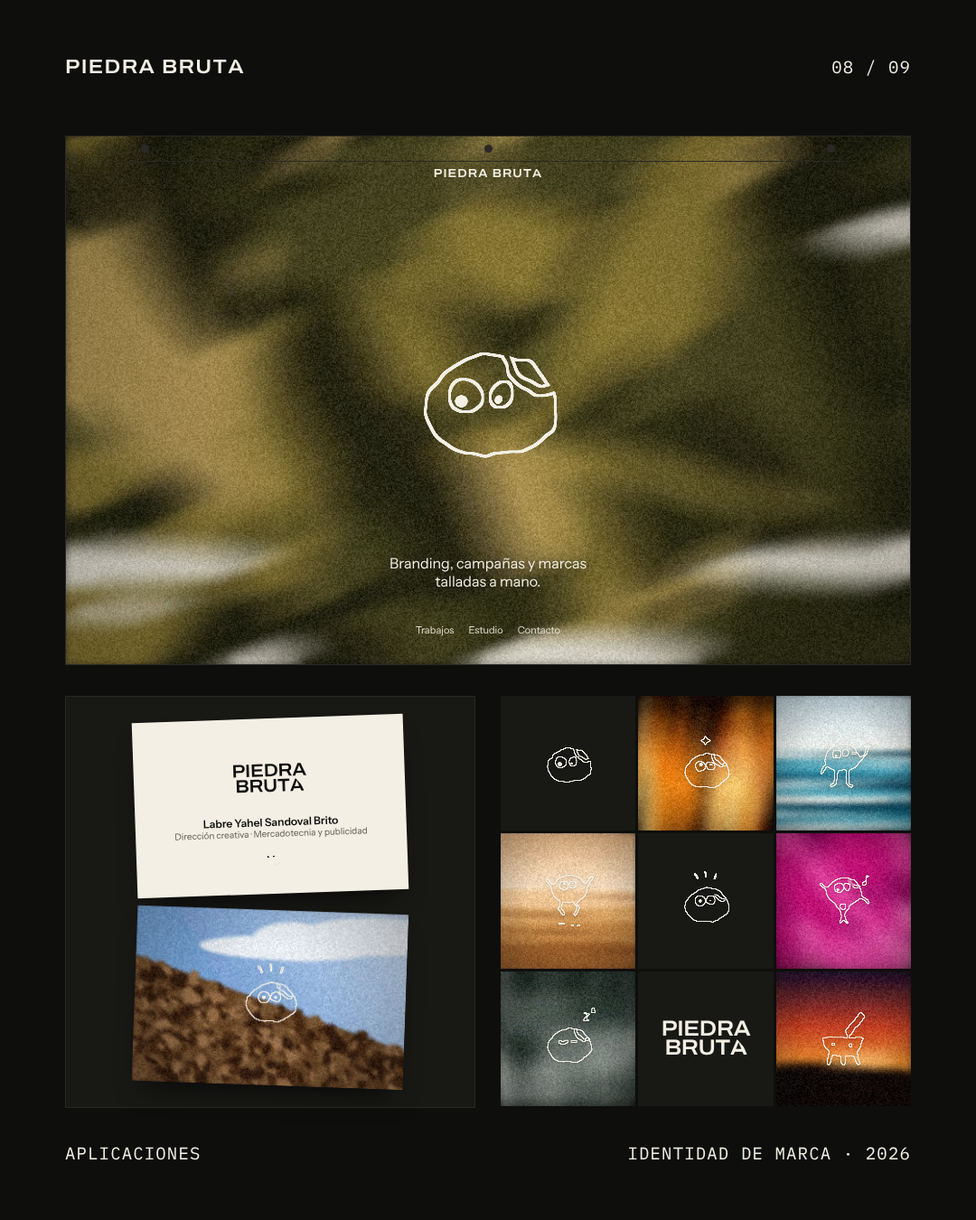
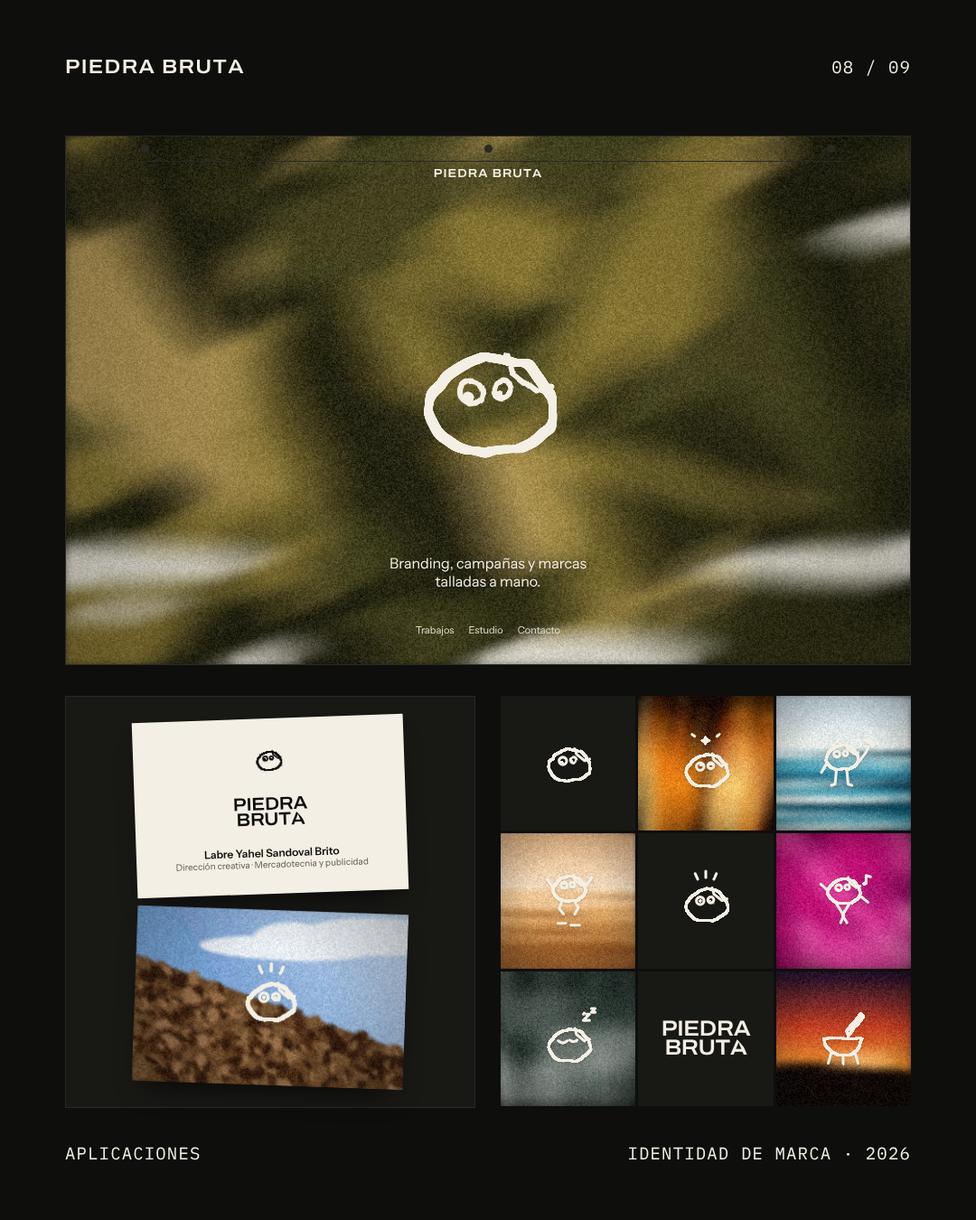
Ilustraciones de Bruta en línea con grosor parejo y logotipo vertical
- Bruta y sus 12 gestos en trazo único (brazos, corte y ojos en una línea)
- Grosor del trazo constante según el tamaño en pantalla
- Logotipo con Bruta arriba y centrado; derretida suave, media e intensa
- 24 PNG transparentes (blanco y negro) y portafolio actualizado

Claude-Session: https://claude.ai/code/session_01EM6TpMU7t67S14XcMdvHnA

diff --git a/identidad/identidad-rupestre.html b/identidad/identidad-rupestre.html
@@ -101,6 +101,10 @@ legend { font-family: "IBM Plex Mono", ui-monospace, monospace; font-size: 12px;
 .mcard .line .sym { width: 1.25em; color: inherit; flex: none; }
 .mcard .plate { overflow: hidden; }
 .mcard .plate.cutdemo { place-items: end start; padding-bottom: 0; }
+.vlock { display: flex; flex-direction: column; align-items: center; justify-content: center; gap: 14px; width: 100%; color: inherit; text-align: center; }
+.vlock > .sym { width: var(--sy, 24%); color: inherit; }
+.vlock .mw { display: block; color: inherit; }
+.mcard .plate.light .vlock .sym, .mcard .plate.light .mw { color: var(--noche); }
 .mcard .caption { font-family: "IBM Plex Mono", ui-monospace, monospace; font-size: 12px; color: var(--ceniza); }
 .fonts { display: grid; gap: 12px; grid-template-columns: repeat(auto-fit, minmax(min(100%, 280px), 1fr)); margin-top: 20px; }
 .fcard { padding: 18px; border: 1px solid var(--linea); display: flex; flex-direction: column; gap: 10px; }
@@ -110,6 +114,7 @@ legend { font-family: "IBM Plex Mono", ui-monospace, monospace; font-size: 12px;
 .fcard p { font-size: 14px; color: var(--ceniza); }
 .fcard.on { border-color: var(--hueso); }
 
+svg .ln, svg .ln * { stroke-width: var(--sw); }
 /* Sistema tipográfico */
 .mono { font-family: "IBM Plex Mono", ui-monospace, Menlo, monospace; }
 .arch { font-family: "Archivo", "Helvetica Neue", Arial, sans-serif; font-stretch: 110%; }
@@ -247,7 +252,7 @@ footer { padding-block: 32px 48px; border-top: 1px solid var(--linea); color: va
 
 <section>
   <div class="wrap">
-    <div class="head"><h2>Logotipo</h2><p>El nombre va completo, nunca partido en sílabas. Su detalle propio es el corte: la A final pierde la esquina superior derecha, como la piedra de Bruta.</p></div>
+    <div class="head"><h2>Logotipo</h2><p>Bruta va arriba y centrada; el nombre, completo, debajo. Puede escribirse en Archivo, con la A tallada, o en su versión derretida en tres intensidades: suave, media e intensa.</p></div>
     <div class="marks" id="marks"></div>
   </div>
 </section>
@@ -328,7 +333,7 @@ footer { padding-block: 32px 48px; border-top: 1px solid var(--linea); color: va
       </div>
       <div class="app">
         <div class="cards">
-          <div class="bc front"><span class="stack"><span>Piedra</span><span>Brut<span class="cutA">a</span></span></span><div class="r"><p class="who">Labre Yahel Sandoval Brito<small>Dirección creativa · Mercadotecnia y publicidad</small></p><span class="sym"></span></div></div>
+          <div class="bc front"><span class="sym bc-top" style="width:40px"></span><span class="stack"><span>Piedra</span><span>Brut<span class="cutA">a</span></span></span><div class="r"><p class="who">Labre Yahel Sandoval Brito<small>Dirección creativa · Mercadotecnia y publicidad</small></p></div></div>
           <div class="bc back" id="bc-back"><canvas></canvas><span class="sym"></span></div>
         </div>
         <h3>Tarjeta de presentación</h3><p>Frente en blanco hueso con el nombre y los datos centrados; reverso con foto y la Mirada en blanco.</p>
@@ -347,6 +352,13 @@ footer { padding-block: 32px 48px; border-top: 1px solid var(--linea); color: va
 (() => {
   /* ===== Filtros: trazo derretido (desplazamiento + desenfoque + umbral) ===== */
   const fx = document.getElementById("fx");
+  [["melt-suave", 16, 2.8], ["melt-intensa", 60, 5.5]].forEach(([id, sc, bl]) => fx.insertAdjacentHTML("beforeend", `
+    <filter id="${id}" x="-10%" y="-20%" width="120%" height="140%" color-interpolation-filters="sRGB">
+      <feTurbulence type="fractalNoise" baseFrequency="0.011 0.018" numOctaves="2" seed="5" result="t"/>
+      <feDisplacementMap in="SourceGraphic" in2="t" scale="${sc}" xChannelSelector="R" yChannelSelector="G" result="d"/>
+      <feGaussianBlur in="d" stdDeviation="${bl}" result="b"/>
+      <feColorMatrix in="b" type="matrix" values="1 0 0 0 0  0 1 0 0 0  0 0 1 0 0  0 0 0 18 -8"/>
+    </filter>`));
   fx.insertAdjacentHTML("beforeend", `
     <filter id="melt" x="-10%" y="-20%" width="120%" height="140%" color-interpolation-filters="sRGB">
       <feTurbulence type="fractalNoise" baseFrequency="0.011 0.018" numOctaves="2" seed="5" result="t"/>
@@ -357,6 +369,7 @@ footer { padding-block: 32px 48px; border-top: 1px solid var(--linea); color: va
   fx.insertAdjacentHTML("beforeend", `
     <filter id="outline" x="-10%" y="-10%" width="120%" height="120%"><feMorphology in="SourceAlpha" operator="erode" radius="3.2" result="e"/><feComposite in="SourceGraphic" in2="e" operator="out"/></filter>
     <filter id="outline-melt" x="-10%" y="-20%" width="120%" height="140%"><feMorphology in="SourceAlpha" operator="erode" radius="5" result="e"/><feComposite in="SourceGraphic" in2="e" operator="out"/></filter>`);
+  [3, 7, 11].forEach((seed, i) => fx.insertAdjacentHTML("beforeend", `<filter id="wob${i}" x="-20%" y="-20%" width="140%" height="140%"><feTurbulence type="fractalNoise" baseFrequency="0.035" numOctaves="2" seed="${seed}" result="t"/><feDisplacementMap in="SourceGraphic" in2="t" scale="6" xChannelSelector="R" yChannelSelector="G"/></filter>`));
   [3, 7, 11].forEach((seed, i) => {
     fx.insertAdjacentHTML("beforeend", `
       <filter id="goo${i}" x="-25%" y="-25%" width="150%" height="150%" color-interpolation-filters="sRGB">
@@ -371,68 +384,72 @@ footer { padding-block: 32px 48px; border-top: 1px solid var(--linea); color: va
   const ray = (cx, cy, a, r0, r1, w) => `<line x1="${cx + Math.cos(a) * r0}" y1="${cy + Math.sin(a) * r0}" x2="${cx + Math.cos(a) * r1}" y2="${cy + Math.sin(a) * r1}" stroke-width="${w}"/>`;
   const spiral = (R = 62, turns = 5.2) => { let d = ""; for (let t = 0; t <= 1; t += 0.01) { const a = t * Math.PI * turns, r = 8 + t * R; d += (t ? " L" : "M") + (100 + Math.cos(a) * r).toFixed(1) + " " + (100 + Math.sin(a) * r).toFixed(1); } return d; };
   const sun = (cx, cy, r, n, len, w, rot) => `<circle cx="${cx}" cy="${cy}" r="${r}"/>` + Array.from({ length: n }, (_, k) => ray(cx, cy, rot + (k / n) * Math.PI * 2, r * .6, r + len * (0.7 + ((k * 37) % 10) / 22), w)).join("");
-  /* Bruta en distintas poses: misma piedra, ojos y corte; cambian brazos, piernas y gestos */
+  /* Bruta en distintas poses: misma piedra, ojos y corte; cambian brazos, piernas y gestos.
+     body = formas rellenas · lines = trazos (brazos, piernas, accesorios) · cut = corte de la piedra
+     holes = huecos (ojos) · eyeLines = ojos cerrados · over = pupilas y puntos siempre rellenos */
   const ROCK = "M60 214 C40 182 46 138 72 110 C92 88 110 66 146 52 C178 40 214 36 246 40 L300 52 L352 118 C368 146 372 178 362 208 C350 240 322 262 284 274 C240 286 186 288 140 280 C102 273 74 248 60 214 Z";
   const heart = (x, y, r) => `M${x} ${y + r * .85} C${x - r * 1.5} ${y - r * .1} ${x - r * .6} ${y - r * 1.15} ${x} ${y - r * .35} C${x + r * .6} ${y - r * 1.15} ${x + r * 1.5} ${y - r * .1} ${x} ${y + r * .85} Z`;
-  function bru({ tx, ty, sc, eyes = "open", limbs = "", extra = "", w = 11, goo = 1, id, name, note }) {
+  const rockAt = (tx, ty, sc) => `<path transform="translate(${tx} ${ty}) scale(${sc})" d="${ROCK}"/>`;
+  function rockParts(tx, ty, sc, eyes) {
     const P = (x, y) => [x * sc + tx, y * sc + ty];
     const [lx, ly] = P(160, 132), [rx, ry] = P(236, 126), rL = 33 * sc, rR = 26 * sc;
     const cut = [P(246, 40), P(258, 84), P(316, 130), P(352, 118)].map((q, i) => (i ? "L" : "M") + q[0].toFixed(1) + " " + q[1].toFixed(1)).join(" ");
-    const line = (x, y, r) => `<path d="M${x - r} ${y - r * .1} Q${x} ${y + r * .8} ${x + r} ${y - r * .1}" fill="none" stroke="#000" stroke-width="${Math.max(4, r * .4)}" stroke-linecap="round"/>`;
-    let holes = `<path d="${cut}" fill="none" stroke="#000" stroke-width="${Math.max(4, 12 * sc)}" stroke-linejoin="round"/>`, over = "";
+    const arc = (x, y, r) => `<path d="M${x - r} ${y - r * .1} Q${x} ${y + r * .8} ${x + r} ${y - r * .1}" stroke-width="${Math.max(4, r * .45)}"/>`;
     const pupil = (x, y, r, dx, dy, k = .47) => `<circle cx="${x + r * dx}" cy="${y + r * dy}" r="${r * k}"/>`;
+    let holes = "", over = "", eyeLines = "", eyeRing = "";
+    const ring = (x, y, r) => `<circle cx="${x}" cy="${y}" r="${r * .82}"/>`;
     if (eyes === "open" || eyes === "up" || eyes === "wide") {
-      const m = 1;
-      holes += `<circle cx="${lx}" cy="${ly}" r="${rL * m}"/><circle cx="${rx}" cy="${ry}" r="${rR * m}"/>`;
+      holes = `<circle cx="${lx}" cy="${ly}" r="${rL}"/><circle cx="${rx}" cy="${ry}" r="${rR}"/>`;
       const [dx, dy, k] = eyes === "up" ? [.15, -.42, .47] : eyes === "wide" ? [0, .02, .42] : [-.25, .4, .47];
-      over = pupil(lx, ly, rL * m, dx, dy, k) + pupil(rx, ry, rR * m, dx, dy, k);
+      over = pupil(lx, ly, rL, dx, dy, k) + pupil(rx, ry, rR, dx, dy, k);
+      eyeRing = ring(lx, ly, rL) + ring(rx, ry, rR);
+    } else if (eyes === "wink") {
+      holes = `<circle cx="${lx}" cy="${ly}" r="${rL}"/>`; over = pupil(lx, ly, rL, -.25, .4); eyeLines = arc(rx, ry, rR); eyeRing = ring(lx, ly, rL);
     } else if (eyes === "closed") {
-      holes += line(lx, ly, rL) + line(rx, ry, rR);
+      eyeLines = arc(lx, ly, rL) + arc(rx, ry, rR);
     } else if (eyes === "heart") {
-      holes += `<path d="${heart(lx, ly, rL * 1.05)}"/><path d="${heart(rx, ry, rR * 1.05)}"/>`;
+      holes = `<path d="${heart(lx, ly, rL * 1.05)}"/><path d="${heart(rx, ry, rR * 1.05)}"/>`;
+      eyeRing = `<path d="${heart(lx, ly, rL * .9)}"/><path d="${heart(rx, ry, rR * .9)}"/>`;
     }
-    return { id, name, note, goo,
-      body: `<path transform="translate(${tx} ${ty}) scale(${sc})" d="${ROCK}"/><g fill="none" stroke-width="${w}" stroke-linecap="round" stroke-linejoin="round">${limbs}</g>${extra}`,
-      holes, over };
+    return { body: rockAt(tx, ty, sc), cut, cw: Math.max(4, 12 * sc), holes, over, eyeLines, eyeRing };
+  }
+  function bru({ tx, ty, sc, eyes = "open", limbs = "", lines = "", fills = "", dots = "", goo = 1, id, name, note }) {
+    const r = rockParts(tx, ty, sc, eyes);
+    return { id, name, note, goo, cut: r.cut, cw: r.cw, holes: r.holes, eyeLines: r.eyeLines, eyeRing: r.eyeRing,
+      body: r.body + fills,
+      lines: (limbs ? `<g stroke-width="11">${limbs}</g>` : "") + lines,
+      over: r.over + dots };
   }
 
   const SYMBOLS = [
-    { id: "bruta", name: "Bruta", note: "La mascota: piedra con la esquina tallada, ojos huecos y pupilas sueltas.", goo: 0,
-      body: `<path transform="translate(10 32) scale(.45)" d="M60 214 C40 182 46 138 72 110 C92 88 110 66 146 52 C178 40 214 36 246 40 L300 52 L352 118 C368 146 372 178 362 208 C350 240 322 262 284 274 C240 286 186 288 140 280 C102 273 74 248 60 214 Z"/>`,
-      holes: `<circle cx="76" cy="96" r="16"/><circle cx="116" cy="94" r="12"/><path d="M118 40 L126 70 L154 92 L180 84" fill="none" stroke="#000" stroke-width="6" stroke-linejoin="round"/>`,
-      over: `<circle cx="72" cy="102" r="7.5"/><circle cx="113" cy="99" r="5.5"/>` },
-    { id: "corre", name: "Bruta corre", note: "Bruta con piernas y brazos, en movimiento. Para eventos, avisos y campañas.", goo: 1,
-      body: `<path transform="translate(28 10) scale(.36)" d="M60 214 C40 182 46 138 72 110 C92 88 110 66 146 52 C178 40 214 36 246 40 L300 52 L352 118 C368 146 372 178 362 208 C350 240 322 262 284 274 C240 286 186 288 140 280 C102 273 74 248 60 214 Z"/>
-        <g fill="none" stroke-width="11" stroke-linecap="round" stroke-linejoin="round"><path d="M82 110 L68 140 L48 148"/><path d="M118 112 L138 136 L134 168"/><path d="M48 82 L26 70"/><path d="M158 76 L180 58"/></g>`,
-      holes: `<circle cx="85" cy="58" r="13"/><circle cx="113" cy="56" r="10"/><path d="M116 22 L121 40 L142 57 L158 52" fill="none" stroke="#000" stroke-width="5" stroke-linejoin="round"/>`,
-      over: `<circle cx="81" cy="63" r="6"/><circle cx="110" cy="60" r="4.5"/>` },
-    { id: "guino", name: "Guiño", note: "Bruta guiña un ojo: complicidad y buen humor. Para redes y mensajes cercanos.", goo: 0,
-      body: `<path transform="translate(10 32) scale(.45)" d="M60 214 C40 182 46 138 72 110 C92 88 110 66 146 52 C178 40 214 36 246 40 L300 52 L352 118 C368 146 372 178 362 208 C350 240 322 262 284 274 C240 286 186 288 140 280 C102 273 74 248 60 214 Z"/>`,
-      holes: `<circle cx="76" cy="96" r="16"/><path d="M103 96 Q116 106 129 95" fill="none" stroke="#000" stroke-width="6" stroke-linecap="round"/><path d="M118 40 L126 70 L154 92 L180 84" fill="none" stroke="#000" stroke-width="6" stroke-linejoin="round"/>`,
-      over: `<circle cx="72" cy="102" r="7.5"/>` },
+    bru({ id: "bruta", name: "Bruta", note: "La mascota: piedra con la esquina tallada, ojos huecos y pupilas sueltas.", goo: 0, tx: 10, ty: 32, sc: .45 }),
+    bru({ id: "corre", name: "Bruta corre", note: "Bruta con piernas y brazos, en movimiento. Para eventos, avisos y campañas.", tx: 28, ty: 10, sc: .36,
+      limbs: `<path d="M82 110 L68 140 L48 148"/><path d="M118 112 L138 136 L134 168"/><path d="M48 82 L26 70"/><path d="M158 76 L180 58"/>` }),
+    bru({ id: "guino", name: "Guiño", note: "Bruta guiña un ojo: complicidad y buen humor. Para redes y mensajes cercanos.", goo: 0, tx: 10, ty: 32, sc: .45, eyes: "wink" }),
     bru({ id: "salta", name: "Salta", note: "Bruta brinca de gusto: lanzamientos, logros y buenas noticias.", tx: 28, ty: 2, sc: .36, eyes: "up",
       limbs: `<path d="M50 58 L32 30"/><path d="M156 52 L176 24"/><path d="M80 98 L70 124 L84 142"/><path d="M118 98 L132 122 L120 142"/>`,
-      extra: `<g fill="none" stroke-width="6" stroke-linecap="round"><path d="M66 172 L92 172"/><path d="M108 178 L136 178"/></g>` }),
+      lines: `<g stroke-width="6"><path d="M66 172 L92 172"/><path d="M108 178 L136 178"/></g>` }),
     bru({ id: "saluda", name: "Saluda", note: "Bruta dice hola: bienvenidas, contacto y primeros mensajes.", tx: 22, ty: 22, sc: .36,
       limbs: `<path d="M44 104 L30 128"/><path d="M152 92 L172 66 L182 46"/><path d="M78 124 L74 166 L62 170"/><path d="M112 124 L116 166 L128 170"/>`,
-      extra: `<g fill="none" stroke-width="4" stroke-linecap="round"><path d="M176 30 Q190 32 194 46"/><path d="M168 24 Q190 18 200 40"/></g>` }),
+      lines: `<g stroke-width="4"><path d="M176 30 Q190 32 194 46"/><path d="M168 24 Q190 18 200 40"/></g>` }),
     bru({ id: "duerme", name: "Duerme", note: "Bruta descansa: fuera de horario, vacaciones y pausas.", tx: 10, ty: 50, sc: .45, eyes: "closed",
-      extra: `<g fill="none" stroke-width="6" stroke-linecap="round" stroke-linejoin="round"><path d="M148 22 L168 22 L148 42 L168 42"/><path d="M174 4 L186 4 L174 16 L186 16"/></g>` }),
+      lines: `<g stroke-width="6"><path d="M148 22 L168 22 L148 42 L168 42"/><path d="M174 4 L186 4 L174 16 L186 16"/></g>` }),
     bru({ id: "sorpresa", name: "Sorpresa", note: "Bruta con los ojos muy abiertos: novedades, avisos y algo que no te esperas.", tx: 10, ty: 40, sc: .45, eyes: "wide",
-      extra: `<g fill="none" stroke-width="7" stroke-linecap="round"><path d="M100 4 L100 24"/><path d="M66 12 L74 30"/><path d="M134 12 L126 30"/></g>` }),
+      lines: `<g stroke-width="7"><path d="M100 4 L100 24"/><path d="M66 12 L74 30"/><path d="M134 12 L126 30"/></g>` }),
     bru({ id: "idea", name: "Idea", note: "A Bruta se le ocurre algo: procesos creativos, talleres y propuestas.", tx: 10, ty: 50, sc: .45, eyes: "up",
-      extra: `<path d="M100 0 C102 18 108 24 126 26 C108 28 102 34 100 52 C98 34 92 28 74 26 C92 24 98 18 100 0 Z"/><g fill="none" stroke-width="5" stroke-linecap="round"><path d="M136 12 L144 6"/><path d="M64 12 L56 6"/></g>` }),
+      fills: `<path d="M100 0 C102 18 108 24 126 26 C108 28 102 34 100 52 C98 34 92 28 74 26 C92 24 98 18 100 0 Z"/>`,
+      lines: `<g stroke-width="5"><path d="M136 12 L144 6"/><path d="M64 12 L56 6"/></g>` }),
     bru({ id: "enamorada", name: "Enamorada", note: "Bruta con ojos de corazón: clientes felices, testimonios y fechas especiales.", tx: 10, ty: 40, sc: .45, eyes: "heart",
-      extra: `<path d="${heart(160, 30, 13)}"/><path d="${heart(182, 10, 8)}"/>` }),
+      fills: `<path d="${heart(160, 30, 13)}"/><path d="${heart(182, 10, 8)}"/>` }),
     bru({ id: "baila", name: "Baila", note: "Bruta bailando: eventos, fiestas y lanzamientos con música.", tx: 28, ty: 10, sc: .36,
       limbs: `<path d="M50 66 L28 46"/><path d="M158 86 L180 104"/><path d="M80 112 L102 146 L92 170"/><path d="M118 112 L98 146 L112 170"/>`,
-      extra: `<circle cx="168" cy="44" r="7"/><path d="M174 44 L174 18 L188 22" fill="none" stroke-width="5" stroke-linecap="round" stroke-linejoin="round"/>` }),
+      lines: `<path d="M174 44 L174 18 L188 22" stroke-width="5"/>`, dots: `<circle cx="168" cy="44" r="7"/>` }),
     bru({ id: "talla", name: "Talla", note: "Bruta trabajando con su cincel: el oficio, el proceso y el detrás de cámaras.", tx: 14, ty: 22, sc: .36,
       limbs: `<path d="M36 104 L22 126"/><path d="M144 92 L164 108"/><path d="M70 124 L66 166 L54 170"/><path d="M104 124 L108 166 L120 170"/>`,
-      extra: `<path d="M160 116 L190 74" fill="none" stroke-width="10" stroke-linecap="round"/><circle cx="180" cy="128" r="4.5"/><circle cx="192" cy="118" r="3.5"/><circle cx="170" cy="136" r="3"/>` }),
-    { id: "molcajete", name: "Molcajete", note: "Piedra volcánica mexicana que muele y mezcla: talleres, ideas y recetas de marca.", goo: 1,
-      body: `<path d="M34 96 L166 96 C166 138 138 158 100 158 C62 158 34 138 34 96 Z"/>
-        <g fill="none" stroke-linecap="round"><g stroke-width="15"><path d="M62 146 L52 180"/><path d="M100 156 L100 184"/><path d="M138 146 L148 180"/></g><path d="M118 80 L158 30" stroke-width="24"/></g>`,
+      fills: `<path d="M158 118 L186 78 L196 86 L168 124 Z"/>`, dots: `<circle cx="180" cy="128" r="4.5"/><circle cx="192" cy="118" r="3.5"/><circle cx="170" cy="136" r="3"/>` }),
+    { id: "molcajete", name: "Molcajete", note: "Piedra volcánica mexicana que muele y mezcla: talleres, ideas y recetas de marca.", goo: 1, noLineHoles: true,
+      body: `<path d="M34 96 L166 96 C166 138 138 158 100 158 C62 158 34 138 34 96 Z"/><path d="M118 80 L158 30" fill="none" stroke-width="24" stroke-linecap="round"/>`,
+      lines: `<g stroke-width="15"><path d="M62 146 L52 180"/><path d="M100 156 L100 184"/><path d="M138 146 L148 180"/></g>`,
       holes: `<circle cx="66" cy="118" r="4"/><circle cx="92" cy="132" r="3.5"/><circle cx="122" cy="122" r="4.5"/><circle cx="142" cy="110" r="3"/><circle cx="104" cy="112" r="3"/><circle cx="78" cy="140" r="3"/>` },
   ];
   let mid = 0;
@@ -440,8 +457,30 @@ footer { padding-block: 32px 48px; border-top: 1px solid var(--linea); color: va
   function symSVG(id, solid) {
     const s = SYMBOLS.find((x) => x.id === id), m = "m" + mid++;
     const line = !solid && lineMode();
-    const mask = s.holes ? `<mask id="${m}" maskUnits="userSpaceOnUse" x="-40" y="-40" width="280" height="280"><rect x="-40" y="-40" width="280" height="280" fill="#fff"/><g fill="#000" filter="url(#goo${s.goo})">${s.holes}</g></mask>` : "";
-    return `<svg viewBox="0 0 200 200" aria-hidden="true">${mask}<g ${line ? 'filter="url(#outline)"' : ""}><g ${s.holes ? `mask="url(#${m})"` : ""}><g fill="currentColor" stroke="currentColor" filter="url(#goo${s.goo})">${s.body}</g></g></g>${s.over ? `<g fill="currentColor" filter="url(#goo${s.goo})">${s.over}</g>` : ""}</svg>`;
+    const LN = 'fill="none" stroke="currentColor" stroke-linecap="round" stroke-linejoin="round"';
+    if (!line) {
+      const holes = (s.holes || "") + (s.cut ? `<path d="${s.cut}" fill="none" stroke="#000" stroke-width="${s.cw}" stroke-linejoin="round"/>` : "") + (s.eyeLines ? `<g fill="none" stroke="#000" stroke-linecap="round">${s.eyeLines}</g>` : "");
+      const mask = holes ? `<mask id="${m}" maskUnits="userSpaceOnUse" x="-40" y="-40" width="280" height="280"><rect x="-40" y="-40" width="280" height="280" fill="#fff"/><g fill="#000" filter="url(#goo${s.goo})">${holes}</g></mask>` : "";
+      return `<svg viewBox="0 0 200 200" aria-hidden="true">${mask}<g ${holes ? `mask="url(#${m})"` : ""}><g fill="currentColor" stroke="currentColor" filter="url(#goo${s.goo})">${s.body}<g ${LN}>${s.lines || ""}</g></g></g>${s.over ? `<g fill="currentColor" filter="url(#goo${s.goo})">${s.over}</g>` : ""}</svg>`;
+    }
+    // Línea: la piedra se contornea; brazos, corte y ojos cerrados son un solo trazo del mismo grosor
+    const lh = s.eyeRing || s.noLineHoles ? "" : s.holes;
+    const mask = lh ? `<mask id="${m}" maskUnits="userSpaceOnUse" x="-40" y="-40" width="280" height="280"><rect x="-40" y="-40" width="280" height="280" fill="#fff"/><g fill="#000" filter="url(#goo${s.goo})">${lh}</g></mask>` : "";
+    const R = 3.2;
+    return `<svg viewBox="0 0 200 200" aria-hidden="true" data-line="1"><filter id="o${m}" x="-10%" y="-10%" width="120%" height="120%"><feMorphology class="er" in="SourceAlpha" operator="erode" radius="${R}" result="e"/><feComposite in="SourceGraphic" in2="e" operator="out"/></filter>${mask}
+      <g filter="url(#o${m})"><g ${lh ? `mask="url(#${m})"` : ""}><g fill="currentColor" stroke="currentColor" filter="url(#goo${s.goo})">${s.body}</g></g></g>
+      <g class="ln" ${LN} style="--sw:${R}px" filter="url(#wob${s.goo})">${s.lines || ""}${s.cut ? `<path d="${s.cut}"/>` : ""}${s.eyeLines || ""}${s.eyeRing || ""}</g>
+      ${s.over ? `<g fill="currentColor" filter="url(#goo${s.goo})">${s.over}</g>` : ""}</svg>`;
+  }
+  /* Grosor parejo: el trazo depende del tamaño en pantalla, no de la escala del dibujo */
+  function fixStrokes(root) {
+    (root || document).querySelectorAll("svg[data-line]").forEach((svg) => {
+      const w = svg.getBoundingClientRect().width; if (!w) return;
+      const vb = svg.viewBox.baseVal.width || 200;
+      const px = Math.min(10, 0.016 * Math.min(w, 500) + 3), r = Math.min((px * vb) / w, vb > 200 ? 7 : 9);
+      svg.querySelectorAll(".er").forEach((e) => e.setAttribute("radius", r.toFixed(2)));
+      svg.querySelectorAll(".ln").forEach((g) => g.style.setProperty("--sw", r.toFixed(2) + "px"));
+    });
   }
 
   /* ===== Fotografía simulada: manchas de color, barrido de movimiento y grano ===== */
@@ -605,8 +644,13 @@ footer { padding-block: 32px 48px; border-top: 1px solid var(--linea); color: va
   }
 
   /* ===== Secciones fijas ===== */
-  function meltSVG(fill) {
-    return `<svg viewBox="0 0 1000 520" aria-hidden="true" style="display:block;width:100%;height:auto;overflow:visible"><g ${lineMode() ? 'filter="url(#outline-melt)"' : ""}><g filter="url(#melt)" fill="${fill || "currentColor"}" style="font-family:var(--wm);font-stretch:var(--wm-stretch);font-weight:var(--wm-weight);text-transform:var(--wm-case)" font-size="210" text-anchor="middle"><text x="500" y="230">Piedra</text><text x="500" y="450">Bruta</text></g></g></svg>`;
+  function meltSVG(fill, o = {}) {
+    const f = o.level === "suave" ? "melt-suave" : o.level === "intensa" ? "melt-intensa" : "melt";
+    const outl = o.outline ?? lineMode();
+    const mk = "mo" + mid++;
+    const ofilt = outl ? `<filter id="${mk}" x="-10%" y="-20%" width="120%" height="140%"><feMorphology class="er" in="SourceAlpha" operator="erode" radius="5" result="e"/><feComposite in="SourceGraphic" in2="e" operator="out"/></filter>` : "";
+    if (o.one) return `<svg viewBox="0 0 1700 300" aria-hidden="true" ${outl ? 'data-line="1"' : ""} style="display:block;width:100%;height:auto;overflow:visible">${ofilt}<g ${outl ? `filter="url(#${mk})"` : ""}><g filter="url(#${f})" fill="${fill || "currentColor"}" style="font-family:var(--wm);font-stretch:var(--wm-stretch);font-weight:var(--wm-weight);text-transform:var(--wm-case)" font-size="200" text-anchor="middle"><text x="850" y="220">Piedra Bruta</text></g></g></svg>`;
+    return `<svg viewBox="0 0 1000 520" aria-hidden="true" ${outl ? 'data-line="1"' : ""} style="display:block;width:100%;height:auto;overflow:visible">${ofilt}<g ${outl ? `filter="url(#${mk})"` : ""}><g filter="url(#${f})" fill="${fill || "currentColor"}" style="font-family:var(--wm);font-stretch:var(--wm-stretch);font-weight:var(--wm-weight);text-transform:var(--wm-case)" font-size="210" text-anchor="middle"><text x="500" y="230">Piedra</text><text x="500" y="450">Bruta</text></g></g></svg>`;
   }
 
   /* ===== Carteles con información (sistema tipográfico) ===== */
@@ -663,13 +707,18 @@ footer { padding-block: 32px 48px; border-top: 1px solid var(--linea); color: va
       sy.appendChild(d);
     });
     const stackHTML = `<span>Piedra</span><span>Brut<span class="cutA">a</span></span>`, oneHTML = `Piedra Brut<span class="cutA">a</span>`;
-    document.getElementById("marks").innerHTML = `
-      <div class="mcard"><div class="plate"><span class="line"><span class="sym">${symSVG("bruta")}</span><span class="wm1">${oneHTML}</span></span></div><span class="caption">Principal: Bruta y el nombre en una línea</span></div>
-      <div class="mcard"><div class="plate light"><span class="stack">${stackHTML}</span></div><span class="caption">En dos líneas, por palabra</span></div>
-      <div class="mcard"><div class="plate"><span class="wm1" style="font-size:clamp(26px,3.2vw,38px)">${oneHTML}</span></div><span class="caption">Solo el nombre</span></div>
-      <div class="mcard"><div class="plate"><span class="melt" style="width:92%">${meltSVG()}</span></div><span class="caption">Derretida: para carteles, eventos y portadas</span></div>
-      <div class="mcard"><div class="plate light"><span class="line" style="flex-direction:column;gap:.2em;font-size:clamp(26px,3.2vw,36px)"><span class="sym" style="width:2.2em">${symSVG("corre")}</span><span class="wm1">${oneHTML}</span></span></div><span class="caption">Con Bruta corre, para campañas y eventos</span></div>
-      <div class="mcard"><div class="plate cutdemo"><span class="wm1" style="font-size:clamp(90px,12vw,150px)">Brut<span class="cutA">a</span></span></div><span class="caption">El corte: la A pierde la esquina, como la piedra</span></div>`;
+    const lock = (wm, opt = {}) => `<span class="vlock" style="--sy:${opt.sy || "34%"}"><span class="sym">${symSVG(opt.sym || "bruta")}</span>${wm}</span>`;
+    const ml = (o) => `<span class="mw" style="width:${o.w || "64%"}">${meltSVG(null, o)}</span>`;
+    document.getElementById("marks").innerHTML = [
+      ["", lock(`<span class="wm1" style="font-size:clamp(24px,3vw,36px)">${oneHTML}</span>`, { sy: "26%" }), "Principal · Bruta arriba y el nombre en una línea"],
+      ["light", lock(`<span class="stack" style="font-size:clamp(34px,4vw,50px)">${stackHTML}</span>`, { sy: "30%" }), "Vertical · nombre en dos líneas"],
+      ["", lock(ml({ level: "suave", outline: false })), "Derretida suave · casi recta, se lee fácil"],
+      ["", lock(ml({ level: "media", outline: false })), "Derretida media · el punto de la marca"],
+      ["light", lock(ml({ level: "intensa", outline: false })), "Derretida intensa · para carteles y eventos"],
+      ["", lock(ml({ level: "media", outline: true })), "Derretida en contorno · combina con Bruta en línea"],
+      ["light", lock(ml({ level: "suave", one: true, outline: false, w: "96%" }), { sy: "22%" }), "Derretida en una línea · espacios anchos"],
+      ["", lock(ml({ level: "intensa", outline: true }), { sym: "corre" }), "Con Bruta corre · campañas y eventos"],
+    ].map(([cls, html, cap]) => `<div class="mcard"><div class="plate ${cls}">${html}</div><span class="caption">${cap}</span></div>`).join("");
     document.getElementById("type-melt").innerHTML = meltSVG();
     const mo = document.getElementById("moods");
     MOODS.forEach((m, i) => {
@@ -692,7 +741,7 @@ footer { padding-block: 32px 48px; border-top: 1px solid var(--linea); color: va
       ig.appendChild(d);
     });
     document.querySelector("#site .sym").innerHTML = symSVG("bruta");
-    document.querySelector(".bc.front .sym").innerHTML = symSVG("bruta");
+    document.querySelectorAll(".bc.front .sym").forEach((e) => (e.innerHTML = symSVG("bruta")));
     document.querySelector("#bc-back .sym").innerHTML = symSVG("sorpresa");
   }
   function paintStatic() {
@@ -700,10 +749,11 @@ footer { padding-block: 32px 48px; border-top: 1px solid var(--linea); color: va
     document.querySelectorAll("[data-mood]").forEach((d) => drawPhoto(d.querySelector("canvas"), d.dataset.mood, +d.dataset.seed));
     drawPhoto(document.querySelector("#site canvas"), "monte", 30);
     drawPhoto(document.querySelector("#bc-back canvas"), "tierra", 31);
+    requestAnimationFrame(() => fixStrokes());
   }
 
-  function update() { save(); applyFont(); renderChips(); renderHero(); }
-  window.PB = { symSVG, meltSVG, drawPhoto, SYMBOLS, MOODS };
+  function update() { save(); applyFont(); renderChips(); renderHero(); requestAnimationFrame(() => fixStrokes(document.getElementById("hero"))); }
+  window.PB = { symSVG, meltSVG, drawPhoto, SYMBOLS, MOODS, fixStrokes };
   function rebuild() {
     ["symbols", "moods", "posters", "ig", "infoposters"].forEach((id) => (document.getElementById(id).innerHTML = ""));
     infoPosters(); buildStatic(); paintStatic();
@@ -712,6 +762,6 @@ footer { padding-block: 32px 48px; border-top: 1px solid var(--linea); color: va
   buildStatic();
   update();
   paintStatic();
-  let rt; addEventListener("resize", () => { clearTimeout(rt); rt = setTimeout(() => { renderHero(); paintStatic(); }, 200); });
+  let rt; addEventListener("resize", () => { clearTimeout(rt); rt = setTimeout(() => { renderHero(); paintStatic(); fixStrokes(); }, 200); });
 })();
 </script>
